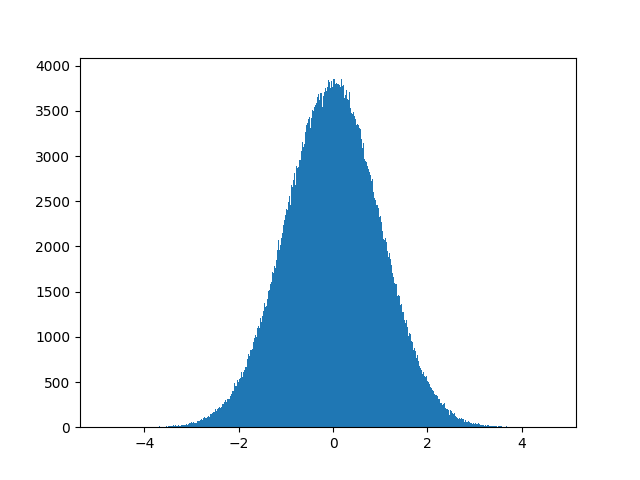
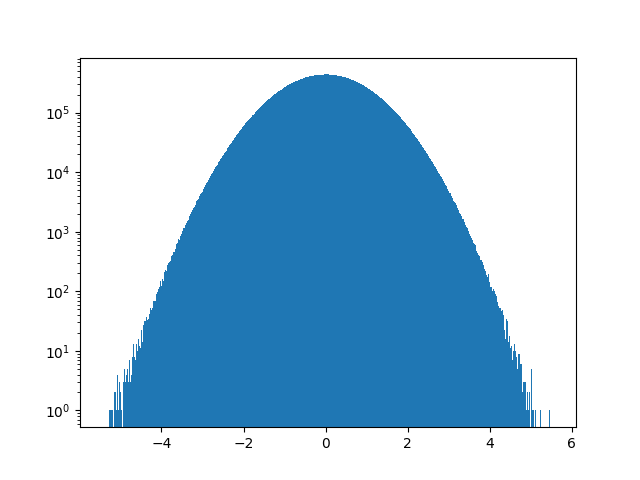
reupdate settings to log plots

diff --git a/sumOfUniforms.py b/sumOfUniforms.py
@@ -7,13 +7,12 @@ import math
 import tensorflow as tf
 import matplotlib.pyplot as plt
 
-sampleSize = tf.TensorShape(1000000)
-numUniforms = 12  #The number of uniforms to sum
+sampleSize = tf.TensorShape(100000000)
 uniformSum = tf.zeros(sampleSize)
-for _ in range(numUniforms):
+for _ in range(12):
     uniformSum += tf.random.uniform(sampleSize, dtype=tf.float32)
-uniformSum = uniformSum - (numUniforms/2)
+uniformSum = uniformSum - 6
 
 plt.hist(uniformSum.numpy(), bins=1000)
-#plt.yscale('log')
+plt.yscale('log')
 plt.savefig(f"results/{os.path.basename(__file__)}.png")

diff --git a/boxMullerTransform.py b/boxMullerTransform.py
@@ -7,11 +7,11 @@ import math
 import tensorflow as tf
 import matplotlib.pyplot as plt
 
-sampleSize = tf.TensorShape(1000000)
+sampleSize = tf.TensorShape(100000000)
 u1 = tf.random.uniform(sampleSize, dtype=tf.float32)
 u2 = tf.random.uniform(sampleSize, dtype=tf.float32)
 z0 = tf.sqrt(-2*tf.math.log(u1))*tf.cos(2*math.pi*u2)
 
 plt.hist(z0.numpy(), bins=1000)
-#plt.yscale('log')
+plt.yscale('log')
 plt.savefig(f"results/{os.path.basename(__file__)}.png")

diff --git a/tfRandomNormal.py b/tfRandomNormal.py
@@ -5,9 +5,9 @@ import math
 import tensorflow as tf
 import matplotlib.pyplot as plt
 
-sampleSize = tf.TensorShape(1000000)
+sampleSize = tf.TensorShape(100000000)
 sample = tf.random.normal(sampleSize)
 
 plt.hist(sample.numpy(), bins=1000)
-#plt.yscale('log')
+plt.yscale('log')
 plt.savefig(f"results/{os.path.basename(__file__)}.png")
